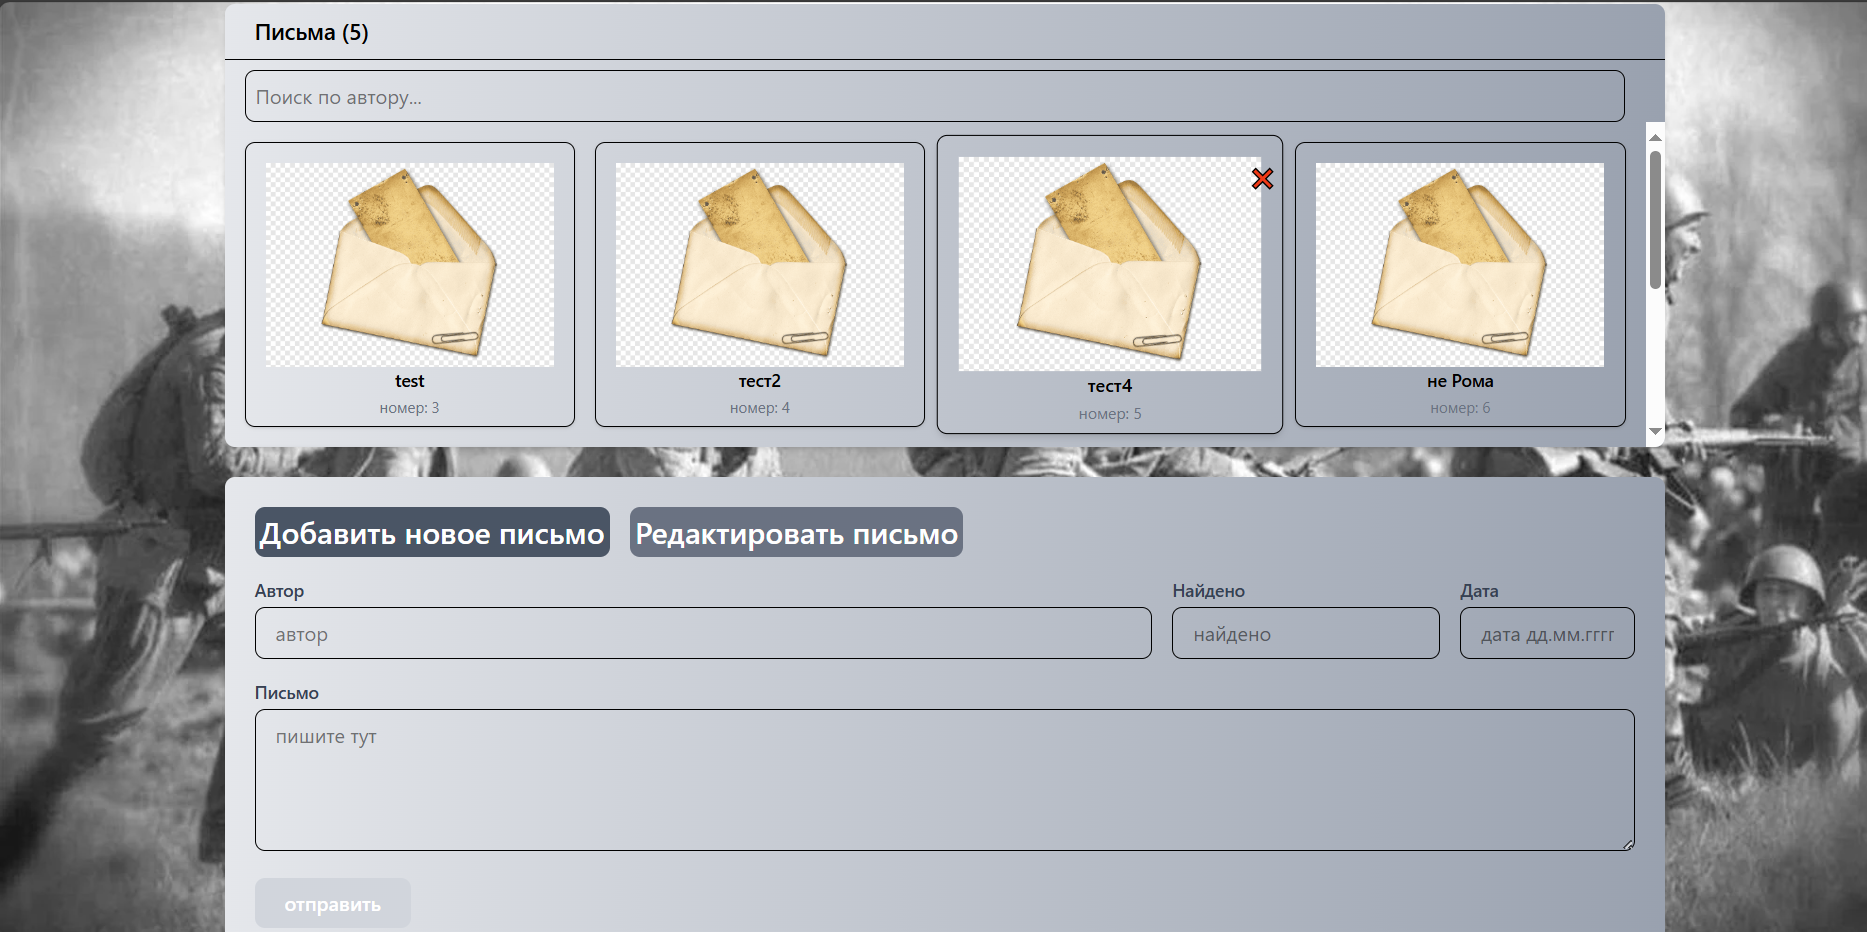
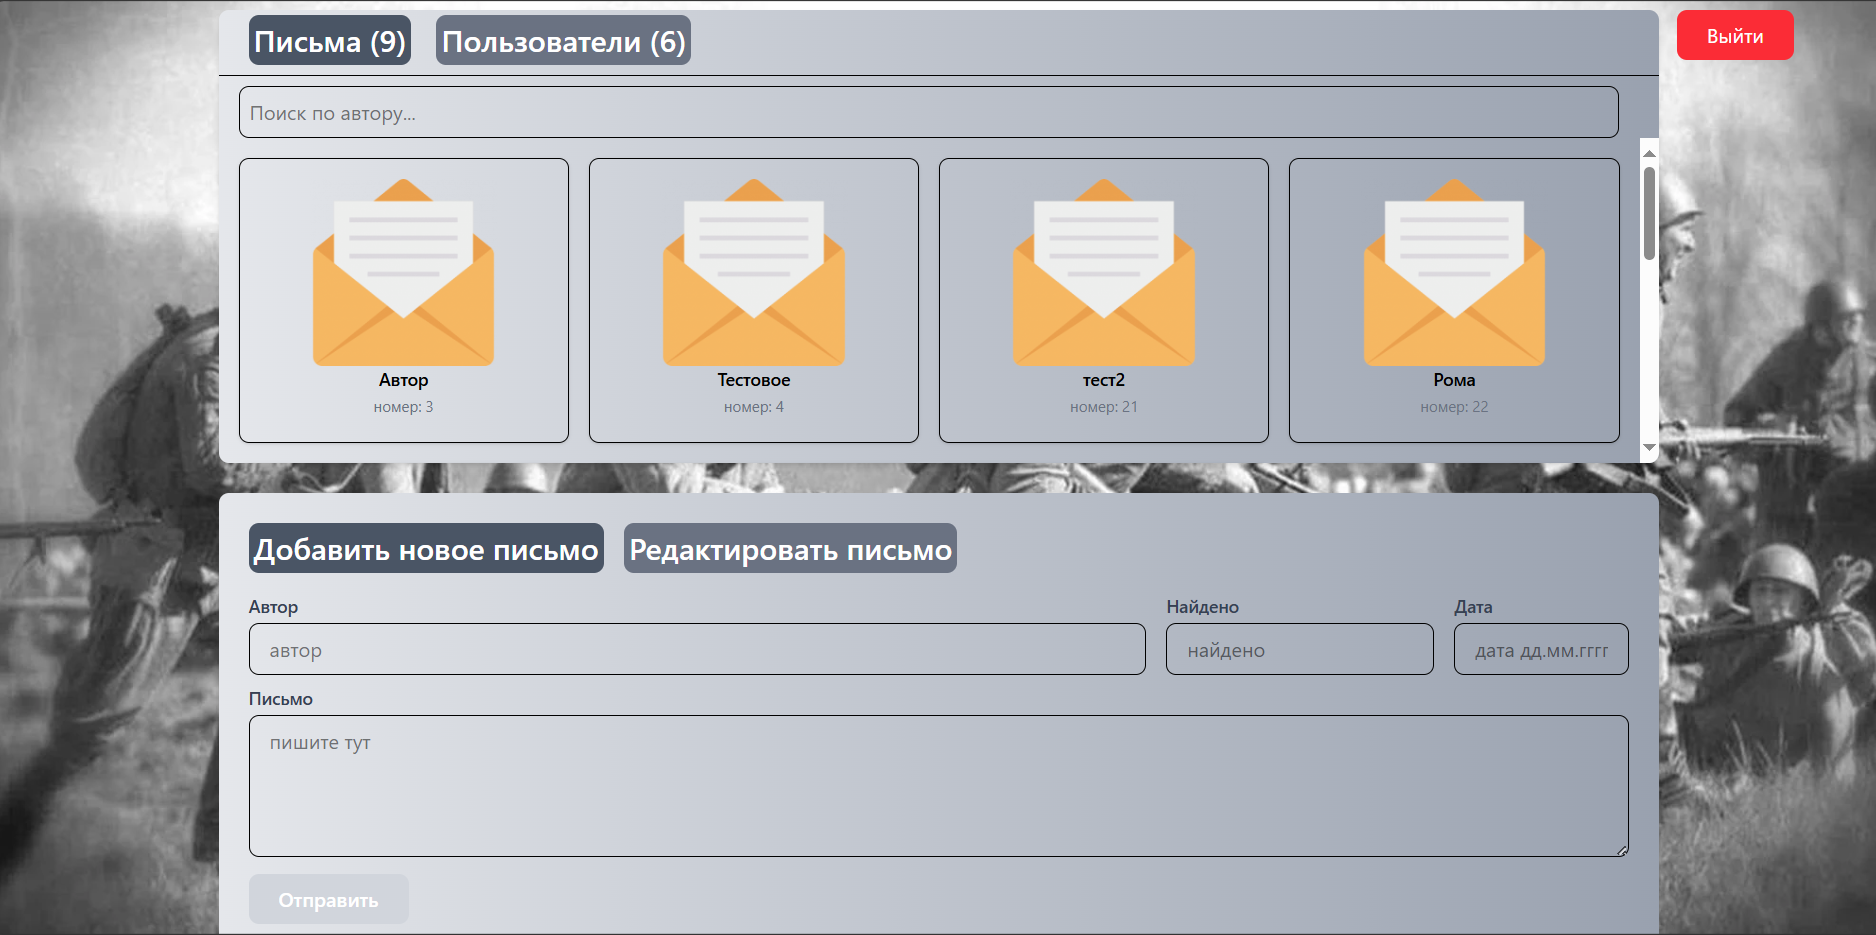
some fixes & readme

diff --git a/client/web/src/components/MailApp.jsx b/client/web/src/components/MailApp.jsx
@@ -131,13 +131,14 @@ export default function MailApp() {
     }
   };
 
-  function HandleChangeShowContent() {
+  function HandleChangeShowContentTo2() {
     fetchUsers();
-    if (showContent == "1") {
-      setShowContent("2");
-    } else {
-      setShowContent("1");
-    }
+    setShowContent("2");
+  }
+
+  function HandleChangeShowContentTo1() {
+    fetchUsers();
+    setShowContent("1");
   }
 
   const fetchMessages = async () => {
@@ -411,16 +412,29 @@ export default function MailApp() {
           <div className="pl-6 pt-1 pb-2 border-b">
             {isAdmin == 6 ? (
               <>
-                <h2 className="text-lg font-semibold">
-                  Письма ({messages.length}){" "}
-                  <span
-                    className="cursor-pointer hover:text-blue-500"
-                    onClick={HandleChangeShowContent}
+                <div className="flex items-center gap-2">
+                  <button
+                    onClick={HandleChangeShowContentTo1}
+                    className={`py-1 px-1 mr-3 rounded-lg text-white font-medium text-2xl font-semibold ${
+                      isEditingUsers
+                        ? "bg-gray-500 hover:bg-gray-700"
+                        : "bg-gray-600 hover:bg-gray-700"
+                    }`}
                   >
-                    <strong>&#8592;</strong>
-                  </span>{" "}
-                  Пользователи ({users.length})
-                </h2>
+                    Письма ({messages.length})
+                  </button>
+
+                  <button
+                    onClick={HandleChangeShowContentTo2}
+                    className={`py-1 px-1 mr-3 rounded-lg text-white font-medium text-2xl font-semibold ${
+                      !isEditingUsers
+                        ? "bg-gray-500 hover:bg-gray-700"
+                        : "bg-gray-600 hover:bg-gray-700"
+                    }`}
+                  >
+                    Пользователи ({users.length})
+                  </button>
+                </div>
               </>
             ) : (
               <h2 className="text-lg font-semibold">
@@ -448,18 +462,27 @@ export default function MailApp() {
         >
           <div className="pl-6 pt-1 pb-2 border-b">
             <div className="flex items-center gap-2">
-              <h2 className="text-lg font-semibold inline-block">
-                Письма ({messages.length})
-              </h2>
-              <span
-                className="cursor-pointer hover:text-blue-500 text-lg"
-                onClick={HandleChangeShowContent}
+              <button
+                onClick={HandleChangeShowContentTo1}
+                className={`py-1 px-1 mr-3 rounded-lg text-white font-medium text-2xl font-semibold ${
+                  !isEditingUsers
+                    ? "bg-gray-500 hover:bg-gray-700"
+                    : "bg-gray-600 hover:bg-gray-700"
+                }`}
               >
-                →
-              </span>
-              <h2 className="text-lg font-semibold inline-block">
+                Письма ({messages.length})
+              </button>
+
+              <button
+                onClick={HandleChangeShowContentTo2}
+                className={`py-1 px-1 mr-3 rounded-lg text-white font-medium text-2xl font-semibold ${
+                  isEditingUsers
+                    ? "bg-gray-500 hover:bg-gray-700"
+                    : "bg-gray-600 hover:bg-gray-700"
+                }`}
+              >
                 Пользователи ({users.length})
-              </h2>
+              </button>
             </div>
           </div>
           <UsersList

diff --git a/client/web/README.md b/client/web/README.md
@@ -14,6 +14,28 @@
 
 ---
 
+## Установка и Запуск
+
+### Требования
+
+- Node.js и npm соответсвенно
+
+### Запуск
+
+установите зависимости
+
+    ```bash
+    nmp install
+    ```
+
+запустите сервис
+
+    ```bash
+    nmp run dev
+    ```
+
+интерфейс запустится на порту 3000
+
 ## формат запроса
 
 ```json
